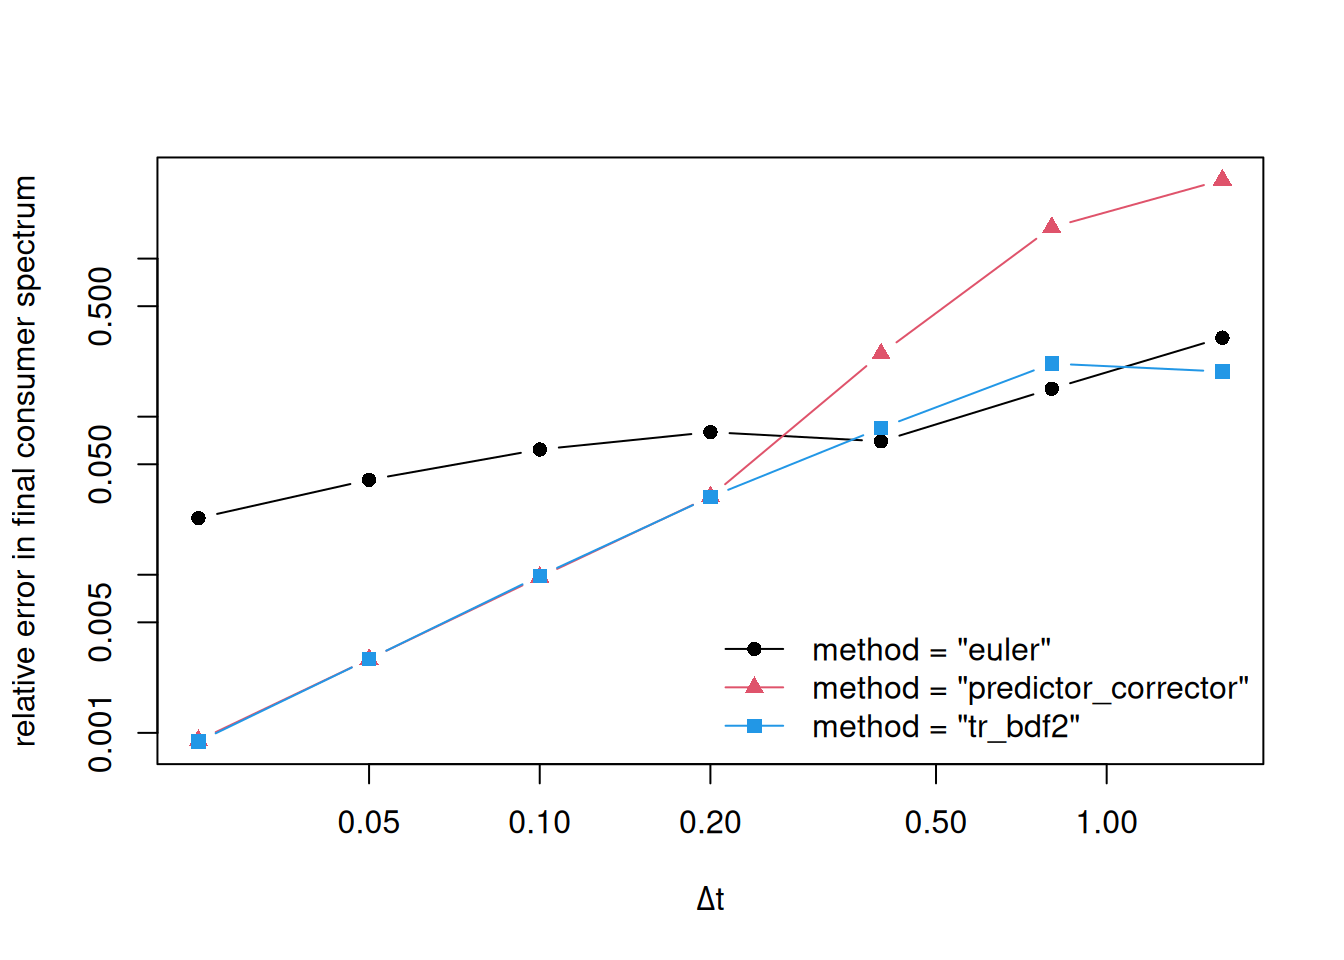
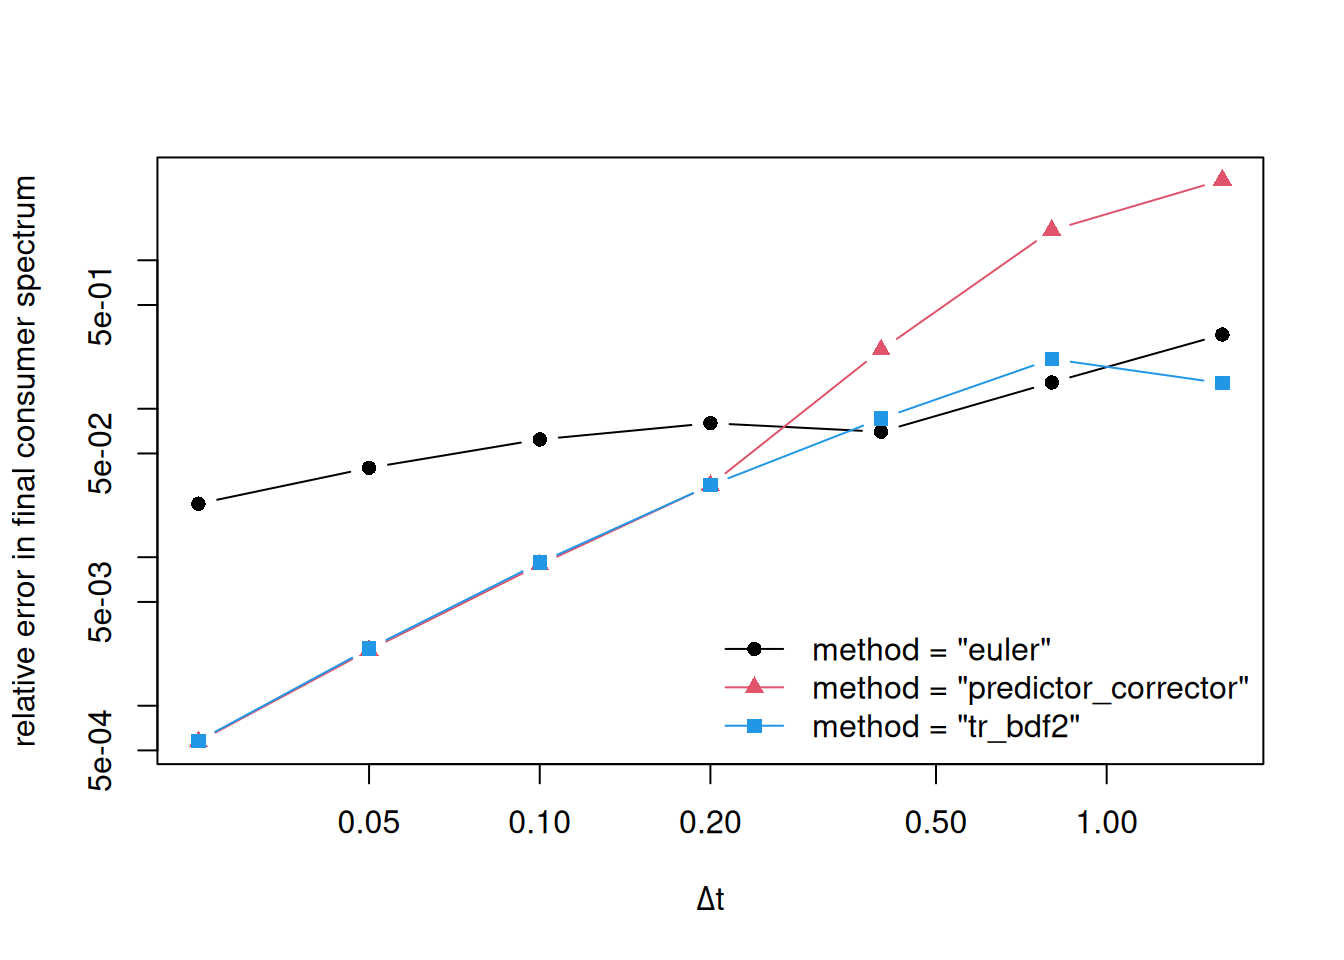
Update NS_params

diff --git a/docs/news/index.html b/docs/news/index.html
@@ -13,7 +13,7 @@
 
     <a class="navbar-brand me-2" href="../index.html">mizer</a>
 
-    <small class="nav-text text-muted me-auto" data-bs-toggle="tooltip" data-bs-placement="bottom" title="">3.0.0</small>
+    <small class="nav-text text-muted me-auto" data-bs-toggle="tooltip" data-bs-placement="bottom" title="">3.0.0.9002</small>
 
 
     <button class="navbar-toggler" type="button" data-bs-toggle="collapse" data-bs-target="#navbar" aria-controls="navbar" aria-expanded="false" aria-label="Toggle navigation">
@@ -44,6 +44,7 @@
     <li><h6 class="dropdown-header" data-toc-skip>Technical articles</h6></li>
     <li><a class="dropdown-item" href="../articles/cohort_dynamics_and_diffusion.html">Cohort dynamics and diffusion</a></li>
     <li><a class="dropdown-item" href="../articles/numerical_details.html">The Numerical Scheme used in Mizer</a></li>
+    <li><a class="dropdown-item" href="../articles/default_parameters.html">Calculation of Default Parameter Values</a></li>
     <li><a class="dropdown-item" href="../articles/fft.html">Fast Fourier Transform for Rates</a></li>
     <li><a class="dropdown-item" href="../articles/analytic_test.html">Analytic Test</a></li>
     <li><hr class="dropdown-divider"></li>
@@ -77,9 +78,22 @@
 
     <div class="section level2">
 <h2 class="pkg-version" data-toc-text="development version" id="mizer-development-version">mizer (development version)<a class="anchor" aria-label="anchor" href="#mizer-development-version"></a></h2>
-<ul><li>
-<code><a href="../reference/project.html">project()</a></code> gains a new time-stepping option <code>method = "tr_bdf2"</code>. This is an L-stable, second-order TR-BDF2 scheme that retains the second-order accuracy of <code>method = "predictor_corrector"</code> while damping the oscillations that the Crank-Nicolson corrector can show at large time steps. Like the other methods it only requires tridiagonal solves. See the “Numerical Details” vignette.</li>
-<li>Under the second-order methods (<code>"predictor_corrector"</code> and <code>"tr_bdf2"</code>) the resource is now advanced with midpoint resource mortality rather than the start-of-step value, so the resource spectrum is also second order in time. The <code>"euler"</code> method and the steady states are unchanged.</li>
+<ul><li><p><code>MizerParams</code> gains an <code>ft_pred_kernel_d</code> slot holding a third Fourier-space predation kernel, used by the predation-diffusion integral (when <code>use_predation_diffusion</code> is <code>TRUE</code>). When the <code>bin_average</code> entry of <code>second_order_w</code> is <code>TRUE</code>, this kernel carries the extra power of prey size that the diffusion integrand needs (<code>w_p^2 dw_p</code>, the <code>β^{3s}</code> Jacobian) instead of reusing the encounter kernel’s <code>β^{2s}</code>, so the predation-diffusion rate is now also second order. In the default first-order scheme it equals <code>ft_pred_kernel_e</code>, so existing models are byte-identical. (<a href="https://github.com/sizespectrum/mizer/issues/384" class="external-link">#384</a>) Additionally, when <code>second_order_w[["bin_average"]]</code> is <code>TRUE</code>, this kernel is now correctly predator-bin averaged (via a trapezoid fold over adjacent offsets), matching the second-order requirements of the diffusion transport step.</p></li>
+<li><p><code><a href="../reference/plotYield.html">plotYield()</a></code> now uses <code>sim2 = NULL</code> instead of <code>missing(sim2)</code> to detect the optional second simulation argument. This is backward-compatible and makes the function work correctly with <code><a href="https://rdrr.io/r/base/do.call.html" class="external-link">do.call()</a></code>.</p></li>
+<li><p><code><a href="../reference/getRDI.html">getRDI()</a></code>, <code><a href="../reference/getRDD.html">getRDD()</a></code>, and <code><a href="../reference/getFlux.html">getFlux()</a></code> on a <code>MizerSim</code> object now correctly use the simulated time-varying effort instead of the initial effort. (<a href="https://github.com/sizespectrum/mizer/issues/370" class="external-link">#370</a>)</p></li>
+<li><p>Added a new vignette explaining the calculation of default parameter values (<a href="https://github.com/sizespectrum/mizer/issues/189" class="external-link">#189</a>).</p></li>
+<li><p><code><a href="../reference/summary.html">summary()</a></code> of a <code>MizerSim</code> object now reports the fishing effort that was actually used during the simulation rather than the model’s <code>initial_effort</code>. Gears whose effort varied over time show the mean effort, flagged with a note giving the min-max range.</p></li>
+<li><p>The <code>second_order_w</code> slot is now a named list with a character entry <code>flux</code> (<code>"upwind"</code>, <code>"van_leer"</code>, or <code>"centred"</code>) and a logical entry <code>bin_average</code>. Setting <code>second_order_w(params) &lt;- TRUE</code> enables both second-order features: <code>flux = "van_leer"</code> (TVD advective reconstruction, keeps abundances non-negative) and <code>bin_average = TRUE</code> (bin-averaged sinks and quadratures). The <code>"centred"</code> flux (unlimited, genuinely second order at extrema) can be selected with <code>second_order_w(params) &lt;- c(flux = "centred")</code>. Old objects with the previous logical <code>second_order_w</code> slot are upgraded automatically. The default first-order upwind scheme is unchanged. See [second_order_w()] and the “Numerical Details” vignette.</p></li>
+<li><p>When the <code>bin_average</code> entry of the <code>second_order_w</code> slot is <code>TRUE</code>, the predation-rate kernel <code>ft_pred_kernel_p</code> is averaged over the <strong>prey</strong> bin (a trapezoid fold of the kernel), completing the predator-bin integral above. Predation mortality is a sink integrated against the prey density over the prey bin, so the prey-bin average is the form it needs to be second order; <code><a href="../reference/getPredMort.html">getPredMort()</a></code> and <code><a href="../reference/getResourceMort.html">getResourceMort()</a></code> (and <code><a href="../reference/getPredRate.html">getPredRate()</a></code>) pick this up automatically with no change to the rate functions and no extra runtime cost. The default (point-sampled) behaviour is unchanged.</p></li>
+<li><p>When the <code>bin_average</code> entry of the <code>second_order_w</code> slot is <code>TRUE</code>, <code><a href="../reference/setExtMort.html">setExtMort()</a></code> now replaces the point-sampled power-law external mortality  by its exact bin average over each bin, making the external mortality sink consistent with the finite-volume scheme. The default (point sampling) is unchanged.</p></li>
+<li><p>When the <code>bin_average</code> entry of the <code>second_order_w</code> slot is <code>TRUE</code>, <code><a href="../reference/setExtDiffusion.html">setExtDiffusion()</a></code> likewise replaces the point-sampled power-law external diffusion  by its exact bin average, exactly as <code><a href="../reference/setExtMort.html">setExtMort()</a></code> does for mortality. The diffusion coefficient is a rate represented as a bin average, so whether it is point-sampled or bin-averaged is now governed by <code>bin_average</code> (the predation-diffusion contribution already follows the bin-averaged predation kernel); <code>flux_limiter</code> only governs the advective reconstruction. A fully second-order transport step therefore needs both flags, and the second-order transport routine consumes the diffusion from <code><a href="../reference/getDiffusion.html">getDiffusion()</a></code> directly rather than averaging it itself. The default (point sampling) is unchanged.</p></li>
+<li><p>When the <code>bin_average</code> entry of the <code>second_order_w</code> slot is <code>TRUE</code>, the reproduction integral in <code><a href="../reference/mizerRDI.html">mizerRDI()</a></code> now trapezoidally bin-averages the per-capita reproductive investment  against the cell-average abundance instead of taking its left-bin-edge value, making the density-independent reproduction rate second order in the bin size. The full per-capita investment is averaged together (not <code>psi</code> alone) to capture the variation of both factors across the bin. The default (left-edge) behaviour is unchanged.</p></li>
+<li><p>When the <code>bin_average</code> entry of the <code>second_order_w</code> slot is <code>TRUE</code>, <code><a href="../reference/setResource.html">setResource()</a></code> now builds the auto-calculated resource rate  and carrying capacity  from their exact bin averages over each size bin instead of point-sampling at the left bin edge, with the bin straddling <code>w_pp_cutoff</code> getting the partial average. This makes the unpredated semichemostat equilibrium equal to the cell-average of the background spectrum that the bin-integrated encounter convolution (<a href="https://github.com/sizespectrum/mizer/issues/374" class="external-link">#374</a>) consumes. Only auto-calculated (scalar) rates and capacities are affected; user-supplied full vectors are left untouched, and the default (point-sampled) behaviour is unchanged. Note that enabling this shifts the resource spectrum by <code>O(Δw)</code> (more on coarse grids), so calibrated models may need recalibrating.</p></li>
+<li><p><code><a href="../reference/project.html">project()</a></code> gains a new time-stepping option <code>method = "tr_bdf2"</code>. This is an L-stable, second-order TR-BDF2 scheme that retains the second-order accuracy of <code>method = "predictor_corrector"</code> while damping the oscillations that the Crank-Nicolson corrector can show at large time steps. Like the other methods it only requires tridiagonal solves. See the “Numerical Details” vignette.</p></li>
+<li><p>Under the second-order methods (<code>"predictor_corrector"</code> and <code>"tr_bdf2"</code>) the resource is now advanced with midpoint resource mortality rather than the start-of-step value, so the resource spectrum is also second order in time. The <code>"euler"</code> method and the steady states are unchanged.</p></li>
+<li><p><code>MizerParams</code> gains a <code>second_order_w</code> slot — a named logical vector with entries <code>flux_limiter</code> and <code>bin_average</code> (both default <code>FALSE</code>). When <code>TRUE</code>, these enable a second-order advective flux and second-order bin-averaged rate quadratures respectively. Both need to be <code>TRUE</code> for a fully second-order scheme. Use the new <code><a href="../reference/second_order_w.html">second_order_w()</a></code> / <code>second_order_w&lt;-()</code> accessors to get and set the flags. The setter accepts a single logical (sets both entries) or a named vector for individual control. It re-runs <code><a href="../reference/setParams.html">setParams()</a></code> to rebuild precomputed arrays.</p></li>
+<li><p>When the <code>bin_average</code> entry of <code>second_order_w</code> is <code>TRUE</code>, the summary integrals (<code><a href="../reference/getBiomass.html">getBiomass()</a></code>, <code><a href="../reference/getSSB.html">getSSB()</a></code>, <code><a href="../reference/getYield.html">getYield()</a></code>, <code><a href="../reference/getYieldGear.html">getYieldGear()</a></code>, <code><a href="../reference/getDiet.html">getDiet()</a></code>, <code><a href="../reference/getTrophicLevel.html">getTrophicLevel()</a></code>) now use the trapezoidal bin-average of the size weight rather than its left-bin-edge value, making these diagnostics second order in the bin size. <code><a href="../reference/getN.html">getN()</a></code> is unchanged (its weight is already exact). With the default <code>bin_average = FALSE</code> the outputs are unchanged. Note that enabling bin-averaging shifts reported biomass/yield/SSB by <code>O(Δw)</code>, so calibrated models may need recalibrating.</p></li>
+<li><p>When <code>second_order_w()[["bin_average"]]</code> is <code>TRUE</code>, <code><a href="../reference/calc_selectivity.html">calc_selectivity()</a></code> now stores the bin average of the selectivity over each size bin instead of its value at the left bin edge, making the fishing mortality second order in the bin size. A knife-edge gear then gets the exact fraction of the straddling bin that lies above the knife edge. The default (point-sampled) behaviour is unchanged.</p></li>
 </ul></div>
     <div class="section level2">
 <h2 class="pkg-version" data-toc-text="3.0.0" id="mizer-300">mizer 3.0.0<a class="anchor" aria-label="anchor" href="#mizer-300"></a></h2><p class="text-muted">CRAN release: 2026-06-08</p>

diff --git a/docs/reference/ArraySpeciesBySize.html b/docs/reference/ArraySpeciesBySize.html
@@ -19,7 +19,7 @@ print(), summary(), plot(), and as.data.frame() methods."><meta property="og:ima
 
     <a class="navbar-brand me-2" href="../index.html">mizer</a>
 
-    <small class="nav-text text-muted me-auto" data-bs-toggle="tooltip" data-bs-placement="bottom" title="">3.0.0</small>
+    <small class="nav-text text-muted me-auto" data-bs-toggle="tooltip" data-bs-placement="bottom" title="">3.0.0.9002</small>
 
 
     <button class="navbar-toggler" type="button" data-bs-toggle="collapse" data-bs-target="#navbar" aria-controls="navbar" aria-expanded="false" aria-label="Toggle navigation">
@@ -50,6 +50,7 @@ print(), summary(), plot(), and as.data.frame() methods."><meta property="og:ima
     <li><h6 class="dropdown-header" data-toc-skip>Technical articles</h6></li>
     <li><a class="dropdown-item" href="../articles/cohort_dynamics_and_diffusion.html">Cohort dynamics and diffusion</a></li>
     <li><a class="dropdown-item" href="../articles/numerical_details.html">The Numerical Scheme used in Mizer</a></li>
+    <li><a class="dropdown-item" href="../articles/default_parameters.html">Calculation of Default Parameter Values</a></li>
     <li><a class="dropdown-item" href="../articles/fft.html">Fast Fourier Transform for Rates</a></li>
     <li><a class="dropdown-item" href="../articles/analytic_test.html">Analytic Test</a></li>
     <li><hr class="dropdown-divider"></li>
@@ -135,6 +136,10 @@ arithmetic operations and subsetting. It carries two lightweight attributes:</p>
     <h2 id="ref-examples">Examples<a class="anchor" aria-label="anchor" href="#ref-examples"></a></h2>
     <div class="sourceCode"><pre class="sourceCode r"><code><span class="r-in"><span><span class="co"># \donttest{</span></span></span>
 <span class="r-in"><span><span class="va">enc</span> <span class="op">&lt;-</span> <span class="fu"><a href="getEncounter.html">getEncounter</a></span><span class="op">(</span><span class="va">NS_params</span><span class="op">)</span></span></span>
+<span class="r-wrn co"><span class="r-pr">#&gt;</span> <span class="warning">Warning: </span>Your MizerParams object was created with an earlier version of mizer. You can upgrade it with `params &lt;- validParams(params)` where you should replace `params` by the name of the variable that holds your MizerParams object.</span>
+<span class="r-wrn co"><span class="r-pr">#&gt;</span> <span class="warning">Warning: </span>Your MizerParams object was created with an earlier version of mizer. You can upgrade it with `params &lt;- validParams(params)` where you should replace `params` by the name of the variable that holds your MizerParams object.</span>
+<span class="r-wrn co"><span class="r-pr">#&gt;</span> <span class="warning">Warning: </span>Your MizerParams object was created with an earlier version of mizer. You can upgrade it with `params &lt;- validParams(params)` where you should replace `params` by the name of the variable that holds your MizerParams object.</span>
+<span class="r-wrn co"><span class="r-pr">#&gt;</span> <span class="warning">Warning: </span>Your MizerParams object was created with an earlier version of mizer. You can upgrade it with `params &lt;- validParams(params)` where you should replace `params` by the name of the variable that holds your MizerParams object.</span>
 <span class="r-in"><span><span class="fu"><a href="is.ArraySpeciesBySize.html">is.ArraySpeciesBySize</a></span><span class="op">(</span><span class="va">enc</span><span class="op">)</span></span></span>
 <span class="r-out co"><span class="r-pr">#&gt;</span> [1] TRUE</span>
 <span class="r-in"><span><span class="fu"><a href="summary.html">summary</a></span><span class="op">(</span><span class="va">enc</span><span class="op">)</span></span></span>